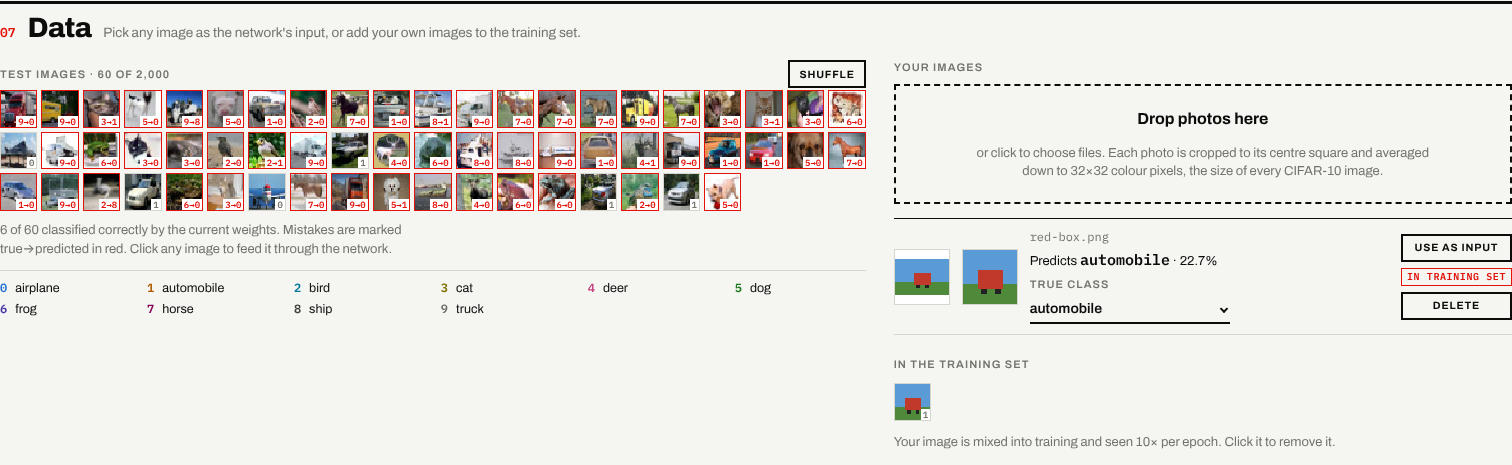
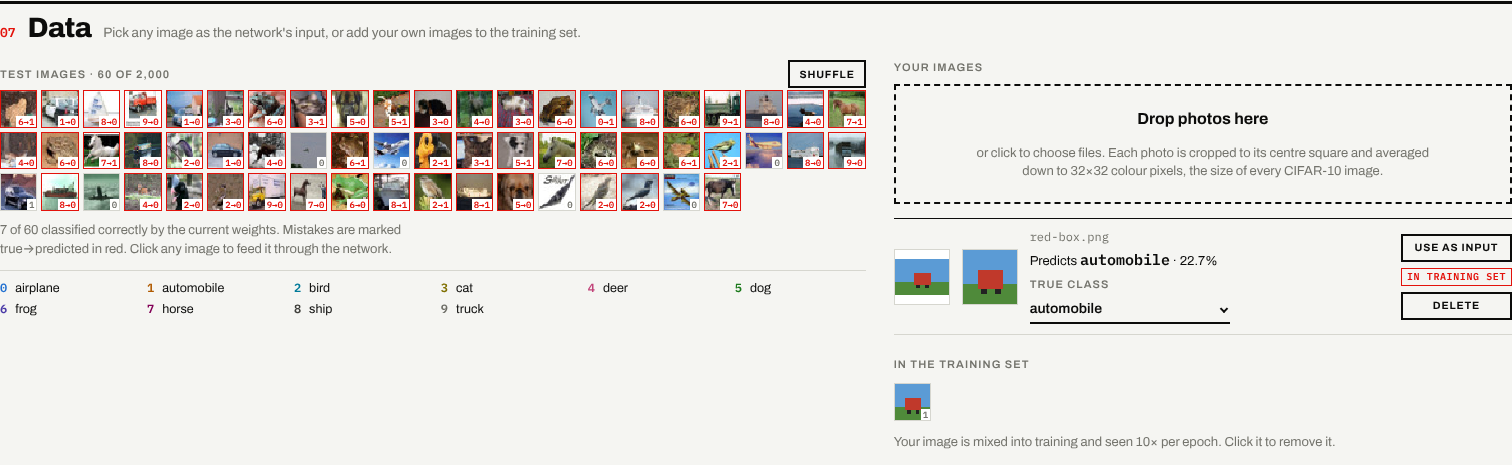
WIP: classify 07's grid in slices on a private network; picker unit tests
The test grid and upload predictions now run on a copy of the network in
slices of a few milliseconds, so training CIFAR-10 with 07 on screen no longer
causes 100 ms long tasks, and the page network keeps the current input's
activations. 03 classifies non-probe inputs on a copy too. Adds unit tests for
the strip's helpers and e2e checks that controls keep focus.

Claude-Session: https://claude.ai/code/session_01XbEHJLkrJr1cYYoamFRkmb

Changed region(s): [[0.0, 0.1806, 0.5906, 0.4516], [0.0, 0.4817, 0.2798, 0.5118]]

diff --git a/src/ui/dataPanel.ts b/src/ui/dataPanel.ts
@@ -4,14 +4,14 @@ import { fixed } from '../analysis/stats';
 import { noun, sampleCaption, sampleInput, type Data, type DatasetId, type DatasetInfo } from '../data/datasets';
 import { featureDefs } from '../data/features';
 import { PointEvaluator, argmaxRows, pointDomain } from '../data/grid';
-import { argmax } from '../nn/network';
+import { argmax, type Network } from '../nn/network';
 import { size } from '../nn/types';
 import { CUSTOM_REPEAT } from '../train/protocol';
 import { store, type CustomEntry, type Probe } from '../store';
 import { mathLabel } from './datasetPicker';
 import { $, clear, digitChips, h, int, selectField } from './dom';
 import { fitCanvas, paintSample, sampleCanvas } from './draw';
-import { imageInput, readImageFile } from './drawpad';
+import { imageInput, privateNetwork, readImageFile } from './drawpad';
 import { classColor, onThemeChange, palette } from './theme';
 import { hideTip, showTip } from './tip';
 
@@ -74,6 +74,8 @@ interface Upload {
   label: number | null;
   customId: number | null;
   row?: HTMLElement;
+  /** The "Predicts …" line, refreshed with the grid while training runs. */
+  pred?: HTMLElement;
 }
 
 const DROP: Record<string, { title: string; how: string }> = {
@@ -157,11 +159,15 @@ function imagePanel(): { el: HTMLElement } {
   };
   shuffle.addEventListener('click', pick);
 
-  // Re-classifying the grid costs a few milliseconds per image (more for CIFAR-10 convolutions), so
-  // it runs only on screen, and at most once per ten times as long as it took.
+  // Re-classifying the grid costs about a millisecond per image, so it runs only on screen, in
+  // slices of a few milliseconds (the page stays responsive while training), on a private copy of
+  // the network (the page's network keeps the current input's activations for the other views),
+  // and at most once per ten times as long as it took.
+  const syncShadow = privateNetwork();
   let lastPredict = 0;
   let interval = 1200;
   let pending: ReturnType<typeof setTimeout> | null = null;
+  let pass = 0; // bumped to abandon a pass that is under way
   const predict = () => {
     const d = store.data;
     if (!d || d.info.kind !== 'image' || !cells.length || !visible()) return;
@@ -172,22 +178,39 @@ function imagePanel(): { el: HTMLElement } {
       return;
     }
     lastPredict = now;
+    const net = syncShadow();
     const info = d.info;
-    let wrong = 0;
+    const todo = cells.slice();
+    const id = ++pass;
     const x = new Float32Array(d.inputSize);
-    for (const c of cells) {
-      const y = d.testY[c.i];
-      const p = argmax(store.net.forward(sampleInput(d, 'test', c.i, x)));
-      const ok = p === y;
-      if (!ok) wrong++;
-      c.tag.textContent = ok ? info.glyphs[y] : `${info.glyphs[y]}→${info.glyphs[p]}`;
-      c.tag.classList.toggle('is-wrong', !ok);
-      c.btn.classList.toggle('is-wrong', !ok);
-      c.btn.title = ok ? c.caption : `${c.caption} · predicted ${className(info, p)}`;
-      c.btn.setAttribute('aria-label', c.btn.title);
-    }
-    interval = Math.max(1200, 10 * (performance.now() - now));
-    gridNote.textContent = `${cells.length - wrong} of ${cells.length} classified correctly by the current weights. Mistakes are marked true→predicted in red. Click any ${noun(info)} to feed it through the network.`;
+    let k = 0;
+    let wrong = 0;
+    let busy = 0;
+    const slice = () => {
+      if (id !== pass || store.data !== d) return;
+      const t0 = performance.now();
+      for (; k < todo.length && performance.now() - t0 < 6; k++) {
+        const c = todo[k];
+        const y = d.testY[c.i];
+        const p = argmax(net.forward(sampleInput(d, 'test', c.i, x)));
+        const ok = p === y;
+        if (!ok) wrong++;
+        c.tag.textContent = ok ? info.glyphs[y] : `${info.glyphs[y]}→${info.glyphs[p]}`;
+        c.tag.classList.toggle('is-wrong', !ok);
+        c.btn.classList.toggle('is-wrong', !ok);
+        c.btn.title = ok ? c.caption : `${c.caption} · predicted ${className(info, p)}`;
+        c.btn.setAttribute('aria-label', c.btn.title);
+      }
+      busy += performance.now() - t0;
+      if (k < todo.length) {
+        setTimeout(slice, 0);
+        return;
+      }
+      predictUploads(net);
+      interval = Math.max(1200, 10 * busy);
+      gridNote.textContent = `${todo.length - wrong} of ${todo.length} classified correctly by the current weights. Mistakes are marked true→predicted in red. Click any ${noun(info)} to feed it through the network.`;
+    };
+    slice();
   };
 
   const renderKey = () => {
@@ -234,13 +257,9 @@ function imagePanel(): { el: HTMLElement } {
     if (!u.x) {
       meta.append(h('span', { class: 'layer-error' }, info.id === 'mnist' ? 'No ink found. Try a higher-contrast image.' : 'Nothing stands out from the background. Try a photo with a plain backdrop.'));
     } else {
-      const fits = store.net.inputSize === u.x.length;
-      const probs = fits ? store.net.forward(u.x) : null;
-      const best = probs ? argmax(probs) : 0;
-      meta.append(
-        probs ? h('span', { class: 'upload-pred' }, 'Predicts ', h('b', null, className(info, best)), ` · ${fixed(probs[best] * 100, 1)}%`) : h('span', { class: 'hint' }, 'Waiting for the network…'),
-        classPicker(u),
-      );
+      u.pred = h('span', { class: 'upload-pred' });
+      showUploadPrediction(u, store.net.inputSize === u.x.length ? syncShadow() : null);
+      meta.append(u.pred, classPicker(u));
     }
     const buttons = h('div', { class: 'dp-upload-actions' });
     if (u.x) {
@@ -278,6 +297,25 @@ function imagePanel(): { el: HTMLElement } {
     row.append(h('img', { src: u.url, alt: `Uploaded image ${u.name}` }), processed, meta, buttons);
     return row;
   };
+
+  /** Fills an upload's "Predicts …" line using `net` (null: the network does not fit this input). */
+  function showUploadPrediction(u: Upload, net: Network | null): void {
+    if (!u.pred || !u.x) return;
+    const info = store.info;
+    clear(u.pred);
+    if (!net || net.inputSize !== u.x.length) {
+      u.pred.className = 'hint';
+      u.pred.textContent = 'Waiting for the network…';
+      return;
+    }
+    const probs = net.forward(u.x);
+    const best = argmax(probs);
+    u.pred.className = 'upload-pred';
+    u.pred.append('Predicts ', h('b', null, className(info, best)), ` · ${fixed(probs[best] * 100, 1)}%`);
+  }
+  function predictUploads(net: Network): void {
+    for (const u of current()) showUploadPrediction(u, net);
+  }
 
   const addFiles = async (files: FileList | File[]) => {
     const info = store.info;

diff --git a/tests/datasetPicker.test.ts b/tests/datasetPicker.test.ts
@@ -1,0 +1,56 @@
+import { beforeAll, describe, expect, it, vi } from 'vitest';
+import { DATASETS, datasetInfo } from '../src/data/datasets';
+import { generate, SYNTHETIC } from '../src/data/synthetic';
+
+/**
+ * The dataset strip's pure helpers. The module also builds UI, and the modules it imports touch a
+ * few browser globals when they load, so those are stubbed before it is imported.
+ */
+type Picker = typeof import('../src/ui/datasetPicker');
+let picker: Picker;
+
+beforeAll(async () => {
+  vi.stubGlobal('matchMedia', () => ({ matches: false, addEventListener() {} }));
+  vi.stubGlobal(
+    'MutationObserver',
+    class {
+      observe() {}
+    },
+  );
+  vi.stubGlobal('document', { documentElement: {} });
+  picker = await import('../src/ui/datasetPicker');
+});
+
+describe('dataset strip helpers', () => {
+  it('predicts the training-set size that the point generator makes', () => {
+    for (const s of SYNTHETIC) {
+      for (const count of [200, 400, 600, 1_000, 2_000]) {
+        for (const trainRatio of [0.1, 0.3, 0.5, 0.9]) {
+          const syn = generate({ id: s.id, count, noise: 0.1, trainRatio, seed: 3 });
+          expect(picker.pointTrainCount(s.classes, count, trainRatio), `${s.id} ${count} ${trainRatio}`).toBe(syn.train.labels.length);
+        }
+      }
+    }
+  });
+
+  it('offers image-sized subsets for images and point-sized subsets for points', () => {
+    expect(picker.limitsFor(datasetInfo('cifar10'))).toEqual([null, 5_000, 1_000, 200]);
+    expect(picker.limitsFor(datasetInfo('helix'))).toEqual([null, 100, 50, 20]);
+    // Every image subset is smaller than every image training set, so each choice changes something.
+    for (const d of DATASETS.filter((x) => x.kind === 'image')) {
+      for (const v of picker.limitsFor(d)) if (v !== null) expect(v).toBeLessThan(d.image!.train);
+    }
+  });
+
+  it('projects 3-D points with the vertical axis up', () => {
+    const [u0, v0] = picker.project3(0, 0, 0);
+    expect(u0).toBeCloseTo(0);
+    expect(v0).toBeCloseTo(0);
+    const [, up] = picker.project3(0, 0, 1);
+    const [, down] = picker.project3(0, 0, -1);
+    expect(up).toBeGreaterThan(0.9);
+    expect(down).toBeLessThan(-0.9);
+    // Points along x₁ and x₂ spread sideways in opposite directions, so neither axis hides the other.
+    expect(Math.sign(picker.project3(1, 0, 0)[0])).not.toBe(Math.sign(picker.project3(0, 1, 0)[0]));
+  });
+});

diff --git a/src/ui/drawpad.ts b/src/ui/drawpad.ts
@@ -16,7 +16,7 @@ import {
   type Adjustment,
   type Box,
 } from '../data/preprocess';
-import { argmax } from '../nn/network';
+import { Network, argmax } from '../nn/network';
 import { size } from '../nn/types';
 import { store } from '../store';
 import { $, clear, digitChips, h, segmented, selectField } from './dom';
@@ -90,6 +90,24 @@ export function imageInput(info: DatasetInfo, img: HTMLImageElement): { x: Float
     return { x: r.x, box: r.box && { x0: r.box.x0 * s, y0: r.box.y0 * s, x1: r.box.x1 * s, y1: r.box.y1 * s } };
   }
   return { x: rgbaToMnist(data.data, data.width, data.height), box: null };
+}
+
+/**
+ * A private copy of the page's network, refreshed on each call. Classifying other inputs with it
+ * leaves the page's network alone, whose activations the other views read for the current input.
+ */
+export function privateNetwork(): () => Network {
+  let net: Network | null = null;
+  let arch = '';
+  return () => {
+    const a = JSON.stringify(store.net.arch);
+    if (!net || a !== arch) {
+      net = new Network(store.net.arch, 0);
+      arch = a;
+    }
+    net.copyCompatible(store.net);
+    return net;
+  };
 }
 
 const named = (info: DatasetInfo) => info.classes.some((c, k) => c !== String(k));
@@ -313,6 +331,7 @@ export function mountDrawpad(): void {
   }
 
   const blank = () => new Float32Array(size(store.input));
+  const copy = privateNetwork();
 
   /** Shows probabilities (or the empty state) in the prediction block. */
   const showPrediction = (x: Float32Array | null, emptyText: string) => {
@@ -331,7 +350,8 @@ export function mountDrawpad(): void {
       }
       return;
     }
-    const probs = store.net.forward(x);
+    // The page's network when x is the current input (its activations then match); a copy otherwise.
+    const probs = (store.probe?.x === x ? store.net : copy()).forward(x);
     const best = argmax(probs);
     const word = isNamed ? info.classes[best] : String(best);
     if (digit.textContent !== word) digit.textContent = word;

diff --git a/e2e/datasets.spec.ts b/e2e/datasets.spec.ts
@@ -418,6 +418,25 @@ test('keyboard: one tab stop for the index, arrows move, Enter picks', async ({ 
   await page.waitForFunction(() => (window as unknown as { raster: Raster }).raster.store.data?.info.id === 'xor3');
   await expect(item(page, 'XOR cube')).toHaveAttribute('aria-pressed', 'true');
   await expect(page.locator('#datasets .dsp-item[tabindex="0"]')).toHaveCount(1);
+
+  // Controls keep keyboard focus while the data they change is rebuilt.
+  const chip = page.locator('#datasets .ds-feat[data-feature="x1*x2"]');
+  await chip.focus();
+  await page.keyboard.press('Enter');
+  await page.waitForFunction(() => (window as unknown as { raster: Raster }).raster.store.net.inputSize === 4);
+  await expect(chip).toHaveAttribute('aria-pressed', 'true');
+  await expect(chip).toBeFocused();
+  const fifty = page.locator('#datasets .dsp-train').getByRole('button', { name: '50', exact: true });
+  await fifty.focus();
+  await page.keyboard.press('Space');
+  await page.waitForFunction(() => (window as unknown as { raster: Raster }).raster.store.data!.trainY.length === 50);
+  await expect(fifty).toHaveAttribute('aria-pressed', 'true');
+  await expect(fifty).toBeFocused();
+  const count = page.locator('#datasets .dsp-points .seg button', { hasText: '400' });
+  await count.focus();
+  await page.keyboard.press('Enter');
+  await page.waitForFunction(() => (window as unknown as { raster: Raster }).raster.store.pointsConfig.count === 400);
+  await expect(count).toBeFocused();
 });
 
 test('dark theme and phone width', async ({ page }) => {
